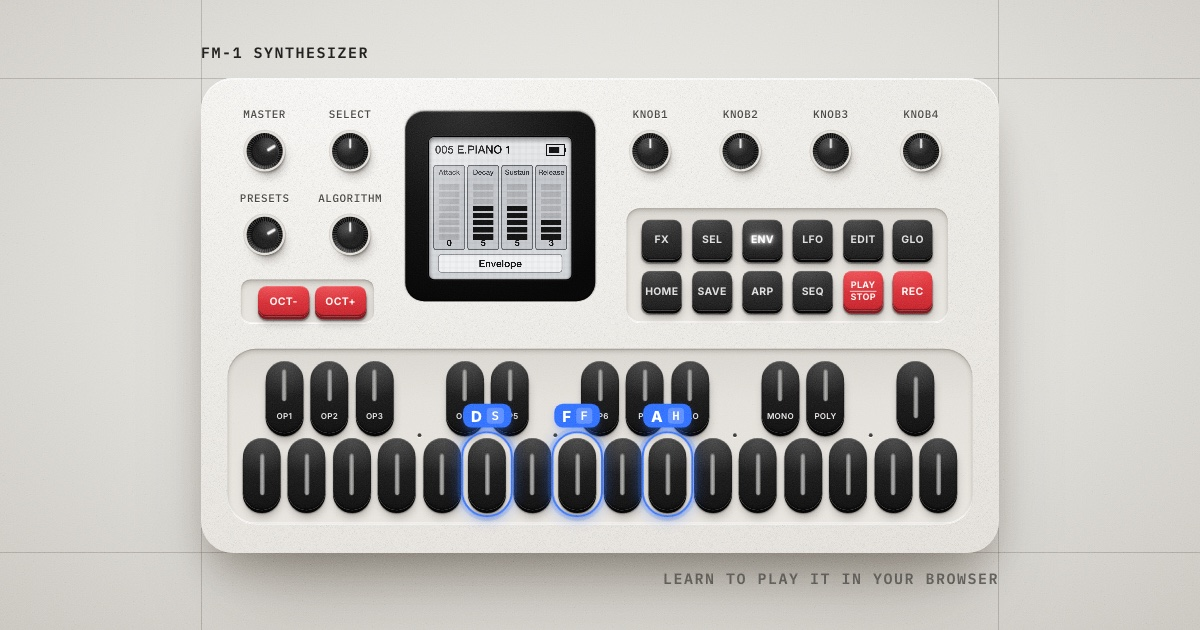
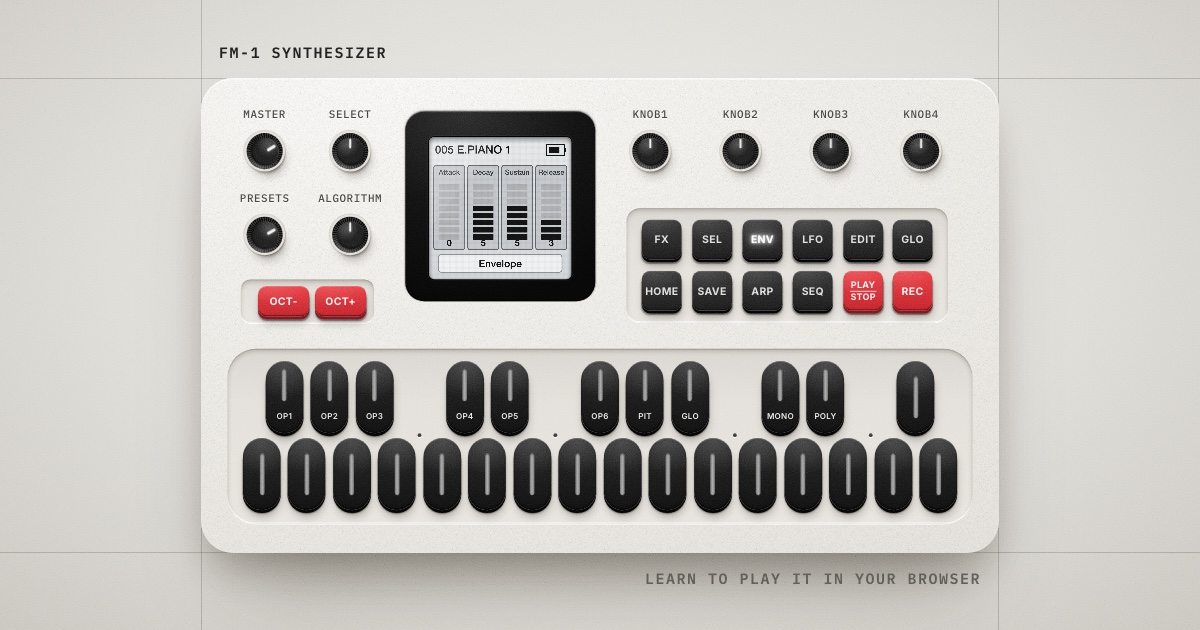
Thumbnail: solo el sinte, sin aros, y textos separados de las líneas

Changed region(s): [[0.37, 0.6333, 0.5858, 0.8444], [0.5242, 0.9048, 0.8325, 0.9349], [0.1542, 0.0603, 0.3392, 0.0905]]

diff --git a/tools/og.tsx b/tools/og.tsx
@@ -1,21 +1,16 @@
 // El thumbnail para compartir: el aparato de verdad (el mismo componente del
-// sitio), al centro, con el aro azul de las lecciones sobre un acorde y dos
-// textos chiquitos en sus esquinas.
+// sitio), al centro y sin nada encima, con dos textos chiquitos en sus esquinas.
 
 import { createRoot } from 'react-dom/client'
 import { Device } from '../src/device/Device'
 import { useFM1 } from '../src/fm1/store'
-import { useCoach } from '../src/learn/coachStore'
-import { keysFor } from '../src/learn/lesson'
 import '../src/styles.css'
 import './og.css'
 
-// E.PIANO 1, el sonido de la lección; la pantalla de ENV (se ve mejor que la
-// línea plana del osciloscopio) y Re menor señalado en el teclado
+// E.PIANO 1 y la pantalla de ENV (se ve mejor que la línea plana del osciloscopio)
 useFM1.getState().turn('presets', 4)
 useFM1.getState().buttonDown('env')
 useFM1.getState().buttonUp('env')
-useCoach.getState().setTarget(keysFor(useFM1.getState(), [62, 65, 69]))
 
 function Card() {
   return (

diff --git a/index.html b/index.html
@@ -21,7 +21,7 @@
     <meta property="og:image" content="https://fm1-sigma.vercel.app/og.jpg" />
     <meta property="og:image:width" content="1200" />
     <meta property="og:image:height" content="630" />
-    <meta property="og:image:alt" content="A replica of the M-VAVE FM-1 synthesizer with three keys highlighted for a lesson" />
+    <meta property="og:image:alt" content="A replica of the M-VAVE FM-1 synthesizer" />
     <meta name="twitter:card" content="summary_large_image" />
     <meta name="twitter:title" content="Learn to play the FM-1" />
     <meta name="twitter:description" content="A 6-operator FM synth in your browser, with guided lessons and real community firmwares." />

diff --git a/tools/og.css b/tools/og.css
@@ -42,7 +42,7 @@ body { background: radial-gradient(75% 85% at 50% 42%, #f1efea 0%, var(--bg) 55%
   color: var(--ink);
   z-index: 3;
 }
-.og-top { left: var(--x0); bottom: calc(630px - var(--y0) + 16px); }
-.og-bottom { right: calc(1200px - var(--x1)); top: calc(var(--y1) + 16px); color: var(--ink-soft); }
+.og-top { left: calc(var(--x0) + 18px); bottom: calc(630px - var(--y0) + 16px); }
+.og-bottom { right: calc(1200px - var(--x1) + 18px); top: calc(var(--y1) + 16px); color: var(--ink-soft); }
 
 .og .grain { position: absolute; inset: 0; }
